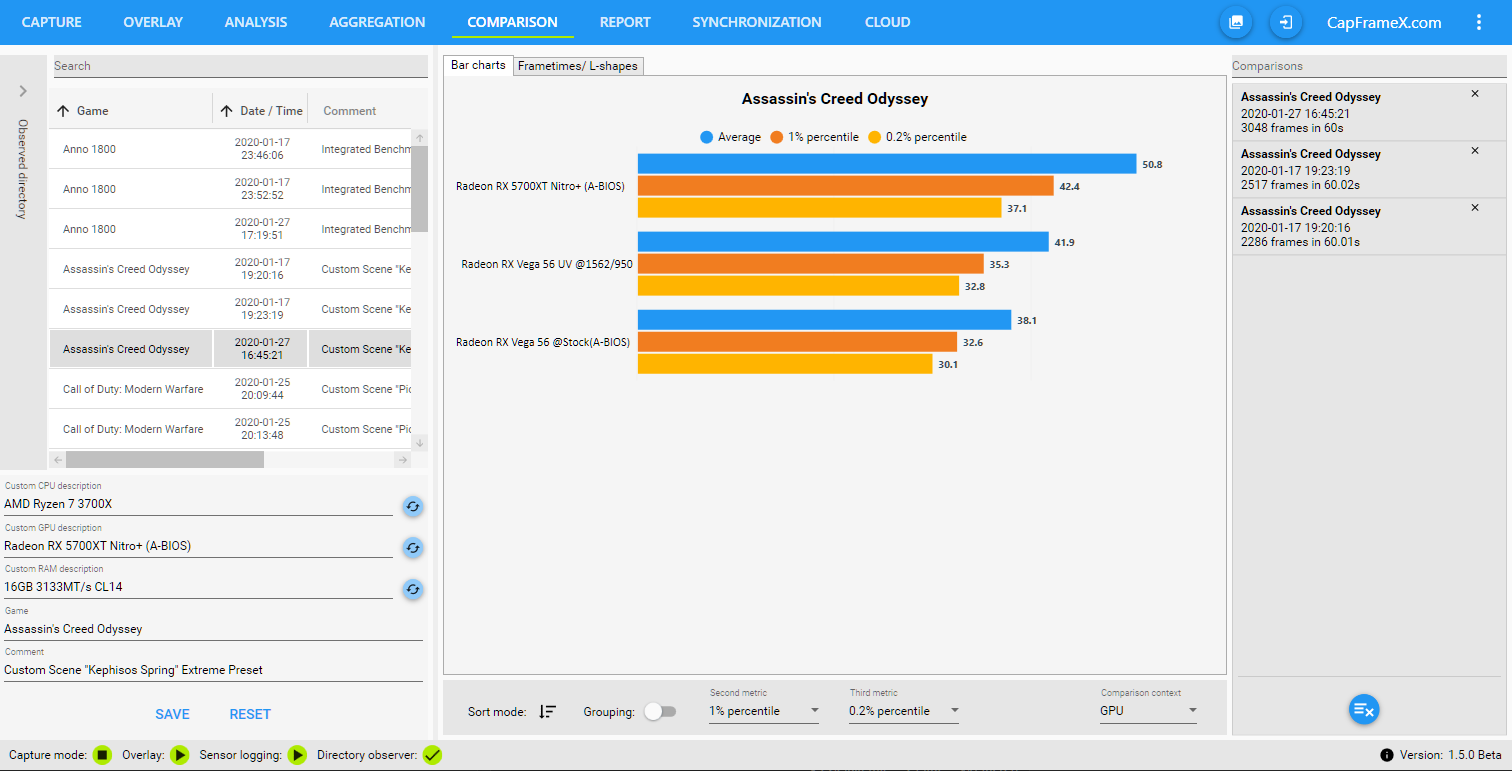
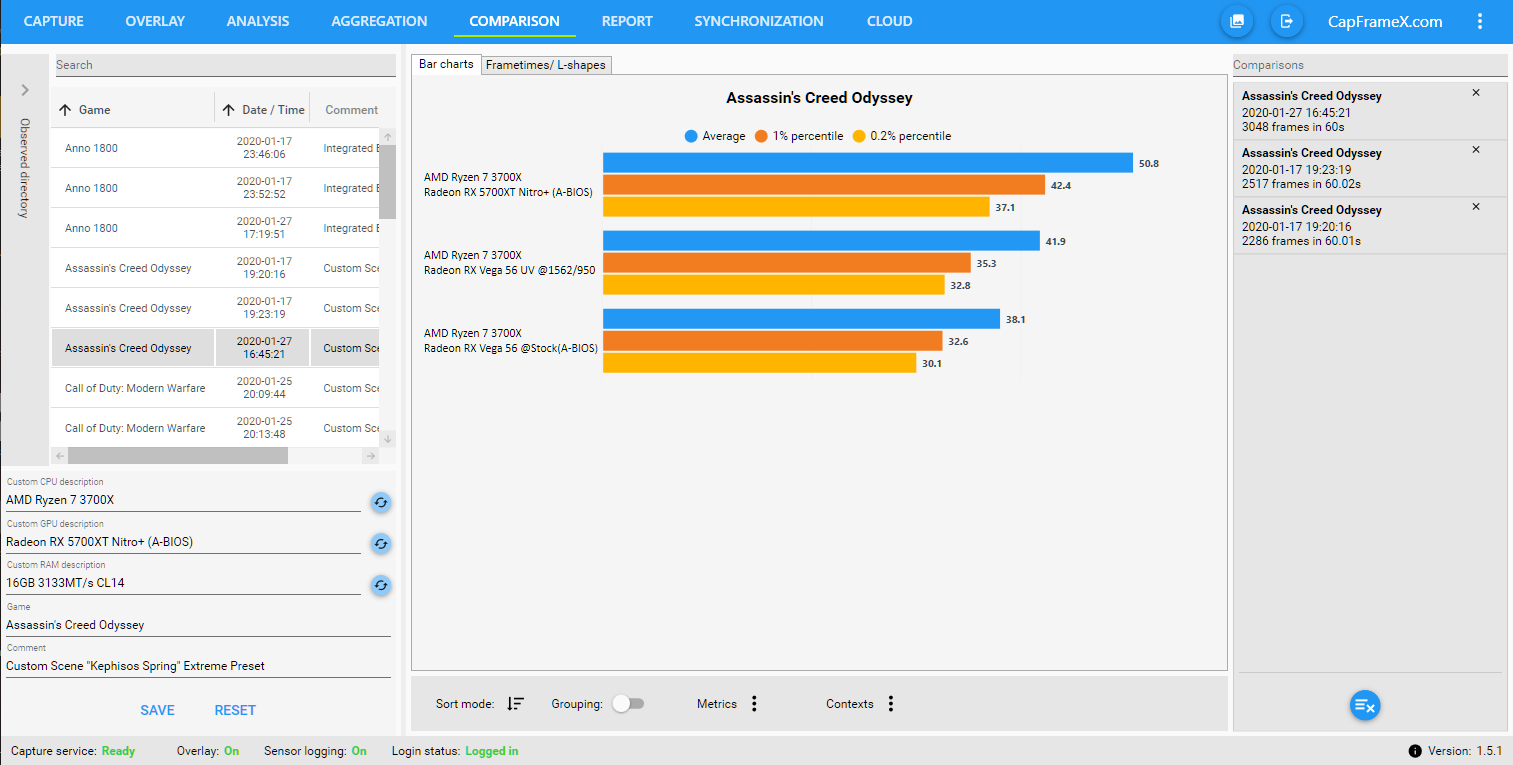
edit readme

diff --git a/README.md b/README.md
@@ -47,11 +47,11 @@ This list is always located at the left section, regardless of the view you're c
 It constantly observes the output directory so every capture will show up here as soon as the capture has finished.
 This also includes every OCAT or PresentMon capture you put into that directory.
 
-Changing directories:
-To change the directory, use the expander on the left where you can select your main folder and get a tree view of all subfolders within that main folder.
-Throgh the right click context menu you can create or delete folders directly in the tree view and also open any selected folder in explorer.
+Changing directories:  
+To change the directory, use the expander on the left where you can select your main folder by double clicking on the address line and get a tree view of all subfolders within that main folder.
+Throgh the right click context menu you can create or delete folders directly in the tree view and also open any selected folder in explorer. You can also move record files to other folders through the context menu in the record list itself.
 
-Changing record info:
+Changing record info:  
 At the bottom of the record list you can see and change the CPU, GPU and RAM description and add a custom comment to every capture.
 Also you can edit the game name, since the process name is used as default. 
 This gets saved in a process list file that is being compared with a list we update on every new version of CapFrameX to add new games that aren't already on your list. 
@@ -124,8 +124,8 @@ With a double-click from the record list you can add the captures to the compari
 
 The first tab shows you the records as bar charts.  
 If you compare records from just a single game, this game is set as a title above the diagramm. If you compare records from multiple games, the names are labeled on the bars.
-In addition you have an adjustable context for each record.
-At the bottom is a toolbar where you can change the sorting and adjust the displayed metrics aswell as the context.  
+In addition you have two adjustable contexts that are set as labels for each record.
+At the bottom is a toolbar where you can change the sorting and adjust the displayed metrics aswell as the contexts.  
 The "Grouping" toggle switches between two sorting modes:  
 off-> all records are sorted by FPS  
 on-> records are sorted by game, then by FPS  
